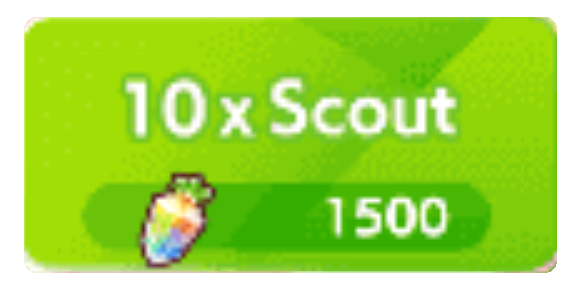
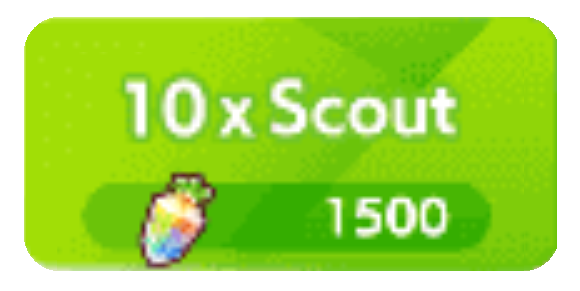
new background

Changed region(s): [[0.031, 0.8351, 0.9621, 0.9588], [0.031, 0.0309, 0.0931, 0.1546], [0.931, 0.0619, 0.9621, 0.1237]]

diff --git a/game/js/navigation.js b/game/js/navigation.js
@@ -148,21 +148,28 @@ window.switchTab = function(tabName) {
     const contentArea = document.querySelector('.upgrade-panel');
     const titleWrapper = contentArea.querySelector('.upgrade-title-wrapper');
     const contentSection = contentArea.querySelector('.upgrade-section');
-    
+
+    // Set scout-bg class for Scout tab background
+    if (tabName === 'scout') {
+        contentArea.classList.add('scout-bg');
+    } else {
+        contentArea.classList.remove('scout-bg');
+    }
+
     // Update the title
     const titleElement = titleWrapper.querySelector('.upgrade-pill h2');
     titleElement.textContent = getTabTitle(tabName);
-    
+
     // Update the content
     contentSection.innerHTML = window.getTabContent(tabName);
     // If upgrades tab, update button states immediately
     if (tabName === 'upgrades' && window.updateUpgradeButtons) {
         window.updateUpgradeButtons();
     }
-    
+
     // Store current tab
     window.currentTab = tabName;
-    
+
     console.log(`Switched to tab: ${tabName}`);
 };
 
@@ -290,15 +297,12 @@ window.getTabContent = function(tabName) {
         case 'scout':
             return `
                 <div class="scout-content">
-                    <div class="scout-image-container">
-                        <img src="assets/images/scouting/uma.jpg" alt="Scout Banner" class="scout-banner">
-                    </div>
-                    <div class="scout-buttons" style="display: flex; gap: 2rem; justify-content: center; margin-top: 2rem;">
+                    <div class="scout-buttons-bottom">
                         <div class="scout-option">
-                            <img src="assets/images/scouting/1x.png" alt="1x Scout" class="scout-img-btn" onclick="performScout(1)" style="cursor:pointer; width:220px; border-radius:16px; box-shadow:0 4px 15px rgba(76,175,80,0.18);">
+                            <img src="assets/images/scouting/1x.png" alt="1x Scout" class="scout-img-btn" onclick="performScout(1)">
                         </div>
                         <div class="scout-option">
-                            <img src="assets/images/scouting/10x.png" alt="10x Scout" class="scout-img-btn" onclick="performScout(10)" style="cursor:pointer; width:220px; border-radius:16px; box-shadow:0 4px 15px rgba(76,175,80,0.18);">
+                            <img src="assets/images/scouting/10x.png" alt="10x Scout" class="scout-img-btn" onclick="performScout(10)">
                         </div>
                     </div>
                 </div>

diff --git a/game/css/style.css b/game/css/style.css
@@ -1,3 +1,28 @@
+/* Scout tab full panel background */
+.upgrade-panel.scout-bg {
+    background: url('../../assets/images/scouting/background.png') center center/cover no-repeat !important;
+}
+/* Scout tab background and bottom buttons */
+.scout-bg {
+    position: relative;
+    min-height: 500px;
+    width: 100%;
+    background: url('../../assets/images/scouting/background.png') center center/cover no-repeat;
+    display: flex;
+    flex-direction: column;
+    justify-content: flex-end;
+    align-items: center;
+    padding-bottom: 48px;
+}
+
+.scout-buttons-bottom {
+    display: flex;
+    gap: 2rem;
+    justify-content: center;
+    align-items: flex-end;
+    width: 100%;
+    margin-bottom: 0;
+}
 * {
     margin: 0;
     padding: 0;
@@ -295,20 +320,6 @@ html, body, .game-container, .upgrade-panel, .character-selection-content, .char
     gap: 1.5rem;
 }
 
-.scout-image-container {
-    width: 100%;
-    max-width: 600px; /* Increased from 500px */
-    border-radius: 15px;
-    overflow: hidden;
-    box-shadow: 0 8px 20px rgba(0, 0, 0, 0.15);
-}
-
-.scout-banner {
-    width: 100%;
-    height: auto;
-    display: block;
-    object-fit: cover;
-}
 
 .scout-buttons {
     display: flex;
